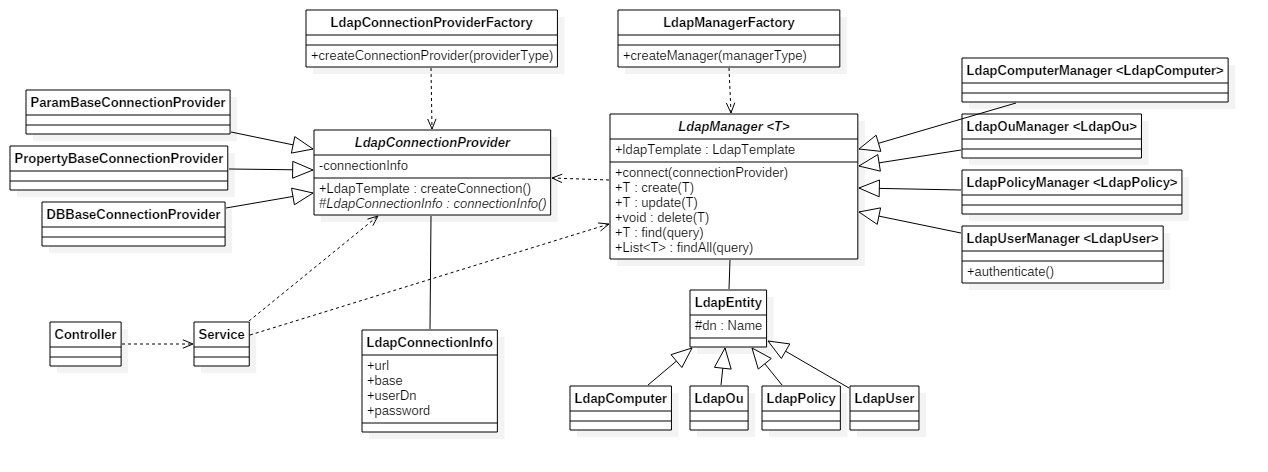
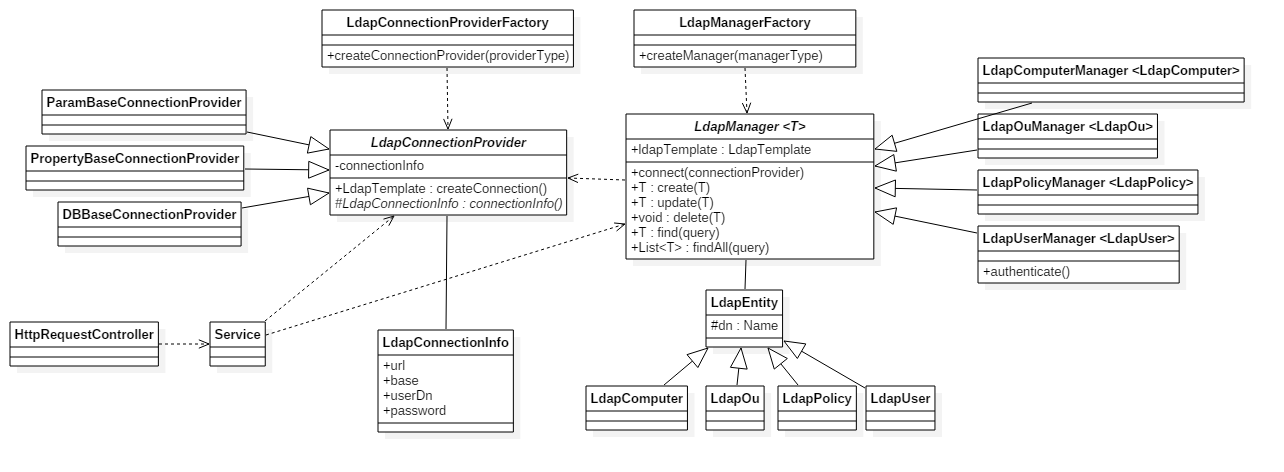
Update README.md
-. TODO 목록 정의
-. 클래스 구조 이미지 수정

diff --git a/README.md b/README.md
@@ -21,4 +21,9 @@
 -. 클래스 구조
 ![](/images/class.png)
 
+-. 클래스 설명
+
+	(1) TODO
+	
 -. 시퀀스
+
